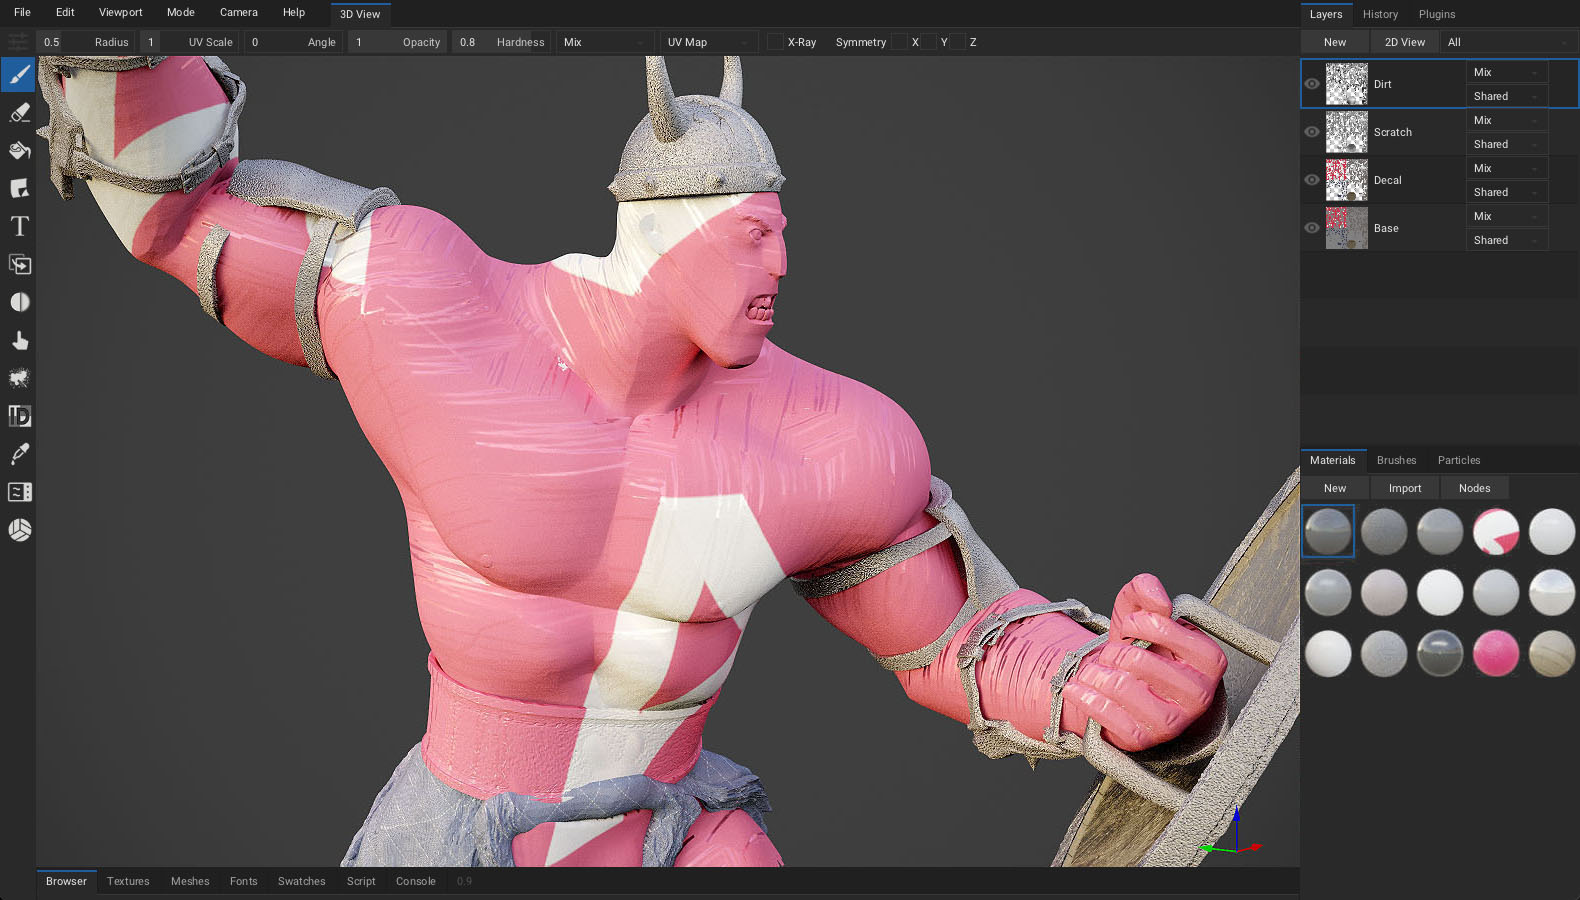
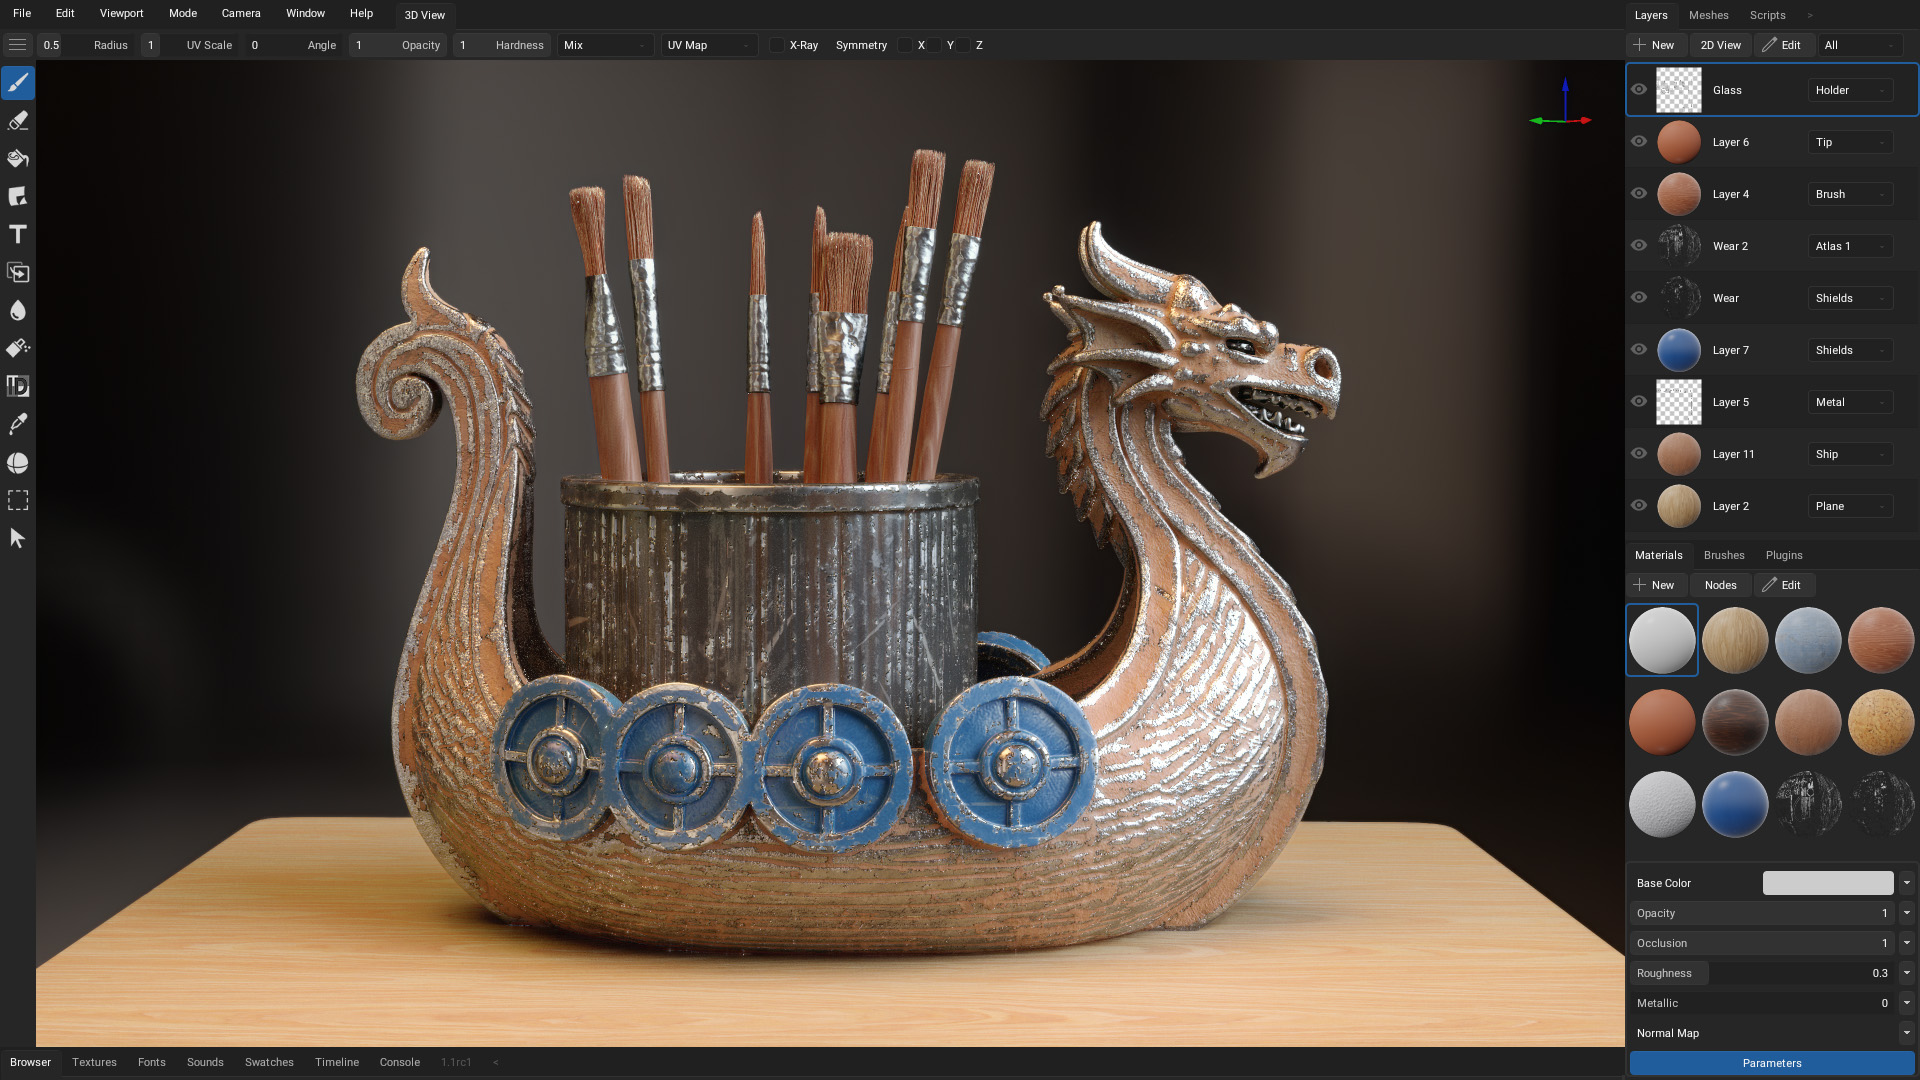
sync

diff --git a/account.html b/account.html
@@ -275,7 +275,6 @@
               <h5>Social</h5>
               <ul class="list-unstyled text-small">
                 <li><a class="link-secondary text-decoration-none" href="https://youtube.com/c/armory3d">YouTube</a></li>
-                <li><a class="link-secondary text-decoration-none" href="https://artstation.com/armory">ArtStation</a></li>
                 <li><a class="link-secondary text-decoration-none" href="https://x.com/armory3d">X</a></li>
               </ul>
             </div>
@@ -284,9 +283,8 @@
             <div>
               <h5>Links</h5>
               <ul class="list-unstyled text-small">
-                <li><a class="link-secondary text-decoration-none" href="https://github.com/armory3d/armorpaint">GitHub</a></li>
-                <li><a class="link-secondary text-decoration-none" href="https://github.com/armory3d/armorpaint/issues">Tracker</a></li>
-                <li><a class="link-secondary text-decoration-none" href="https://forums.armorpaint.org/c/releases">Releases</a></li>
+                <li><a class="link-secondary text-decoration-none" href="https://github.com/armory3d">GitHub</a></li>
+                <li><a class="link-secondary text-decoration-none" href="https://forums.armorpaint.org/c/news">Releases</a></li>
               </ul>
             </div>
           </div>
@@ -300,7 +298,6 @@
                 document.write("<li><a class='link-secondary text-decoration-none' href='" + "mail" + "to:" + user_name + "@" + host_name + "'>Contact</a></li>");
                 </script>
                 <li><a class="link-secondary text-decoration-none" href="https://armorpaint.org/privacy">Privacy</a></li>
-                <li><a class="link-secondary text-decoration-none" href="https://github.com/armory3d/armorpaint/blob/main/license.md">License</a></li>
               </ul>
             </div>
           </div>

diff --git a/index.html b/index.html
@@ -258,7 +258,6 @@
               <h5>Social</h5>
               <ul class="list-unstyled text-small">
                 <li><a class="link-secondary text-decoration-none" href="https://youtube.com/c/armory3d">YouTube</a></li>
-                <li><a class="link-secondary text-decoration-none" href="https://artstation.com/armory">ArtStation</a></li>
                 <li><a class="link-secondary text-decoration-none" href="https://x.com/armory3d">X</a></li>
               </ul>
             </div>
@@ -267,9 +266,8 @@
             <div>
               <h5>Links</h5>
               <ul class="list-unstyled text-small">
-                <li><a class="link-secondary text-decoration-none" href="https://github.com/armory3d/armorpaint">GitHub</a></li>
-                <li><a class="link-secondary text-decoration-none" href="https://github.com/armory3d/armorpaint/issues">Tracker</a></li>
-                <li><a class="link-secondary text-decoration-none" href="https://forums.armorpaint.org/c/releases">Releases</a></li>
+                <li><a class="link-secondary text-decoration-none" href="https://github.com/armory3d">GitHub</a></li>
+                <li><a class="link-secondary text-decoration-none" href="https://forums.armorpaint.org/c/news">Releases</a></li>
               </ul>
             </div>
           </div>
@@ -283,7 +281,6 @@
                 document.write("<li><a class='link-secondary text-decoration-none' href='" + "mail" + "to:" + user_name + "@" + host_name + "'>Contact</a></li>");
                 </script>
                 <li><a class="link-secondary text-decoration-none" href="https://armorpaint.org/privacy">Privacy</a></li>
-                <li><a class="link-secondary text-decoration-none" href="https://github.com/armory3d/armorpaint/blob/main/license.md">License</a></li>
               </ul>
             </div>
           </div>

diff --git a/login.html b/login.html
@@ -240,7 +240,6 @@
               <h5>Social</h5>
               <ul class="list-unstyled text-small">
                 <li><a class="link-secondary text-decoration-none" href="https://youtube.com/c/armory3d">YouTube</a></li>
-                <li><a class="link-secondary text-decoration-none" href="https://artstation.com/armory">ArtStation</a></li>
                 <li><a class="link-secondary text-decoration-none" href="https://x.com/armory3d">X</a></li>
               </ul>
             </div>
@@ -249,9 +248,8 @@
             <div>
               <h5>Links</h5>
               <ul class="list-unstyled text-small">
-                <li><a class="link-secondary text-decoration-none" href="https://github.com/armory3d/armorpaint">GitHub</a></li>
-                <li><a class="link-secondary text-decoration-none" href="https://github.com/armory3d/armorpaint/issues">Tracker</a></li>
-                <li><a class="link-secondary text-decoration-none" href="https://forums.armorpaint.org/c/releases">Releases</a></li>
+                <li><a class="link-secondary text-decoration-none" href="https://github.com/armory3d">GitHub</a></li>
+                <li><a class="link-secondary text-decoration-none" href="https://forums.armorpaint.org/c/news">Releases</a></li>
               </ul>
             </div>
           </div>
@@ -265,7 +263,6 @@
                 document.write("<li><a class='link-secondary text-decoration-none' href='" + "mail" + "to:" + user_name + "@" + host_name + "'>Contact</a></li>");
                 </script>
                 <li><a class="link-secondary text-decoration-none" href="https://armorpaint.org/privacy">Privacy</a></li>
-                <li><a class="link-secondary text-decoration-none" href="https://github.com/armory3d/armorpaint/blob/main/license.md">License</a></li>
               </ul>
             </div>
           </div>

diff --git a/privacy.html b/privacy.html
@@ -234,7 +234,6 @@
               <h5>Social</h5>
               <ul class="list-unstyled text-small">
                 <li><a class="link-secondary text-decoration-none" href="https://youtube.com/c/armory3d">YouTube</a></li>
-                <li><a class="link-secondary text-decoration-none" href="https://artstation.com/armory">ArtStation</a></li>
                 <li><a class="link-secondary text-decoration-none" href="https://x.com/armory3d">X</a></li>
               </ul>
             </div>
@@ -243,9 +242,8 @@
             <div>
               <h5>Links</h5>
               <ul class="list-unstyled text-small">
-                <li><a class="link-secondary text-decoration-none" href="https://github.com/armory3d/armorpaint">GitHub</a></li>
-                <li><a class="link-secondary text-decoration-none" href="https://github.com/armory3d/armorpaint/issues">Tracker</a></li>
-                <li><a class="link-secondary text-decoration-none" href="https://forums.armorpaint.org/c/releases">Releases</a></li>
+                <li><a class="link-secondary text-decoration-none" href="https://github.com/armory3d">GitHub</a></li>
+                <li><a class="link-secondary text-decoration-none" href="https://forums.armorpaint.org/c/news">Releases</a></li>
               </ul>
             </div>
           </div>
@@ -259,7 +257,6 @@
                 document.write("<li><a class='link-secondary text-decoration-none' href='" + "mail" + "to:" + user_name + "@" + host_name + "'>Contact</a></li>");
                 </script>
                 <li><a class="link-secondary text-decoration-none" href="https://armorpaint.org/privacy">Privacy</a></li>
-                <li><a class="link-secondary text-decoration-none" href="https://github.com/armory3d/armorpaint/blob/main/license.md">License</a></li>
               </ul>
             </div>
           </div>

diff --git a/src/footer.html b/src/footer.html
@@ -25,7 +25,6 @@
               <h5>Social</h5>
               <ul class="list-unstyled text-small">
                 <li><a class="link-secondary text-decoration-none" href="https://youtube.com/c/armory3d">YouTube</a></li>
-                <li><a class="link-secondary text-decoration-none" href="https://artstation.com/armory">ArtStation</a></li>
                 <li><a class="link-secondary text-decoration-none" href="https://x.com/armory3d">X</a></li>
               </ul>
             </div>
@@ -34,9 +33,8 @@
             <div>
               <h5>Links</h5>
               <ul class="list-unstyled text-small">
-                <li><a class="link-secondary text-decoration-none" href="https://github.com/armory3d/armorpaint">GitHub</a></li>
-                <li><a class="link-secondary text-decoration-none" href="https://github.com/armory3d/armorpaint/issues">Tracker</a></li>
-                <li><a class="link-secondary text-decoration-none" href="https://forums.armorpaint.org/c/releases">Releases</a></li>
+                <li><a class="link-secondary text-decoration-none" href="https://github.com/armory3d">GitHub</a></li>
+                <li><a class="link-secondary text-decoration-none" href="https://forums.armorpaint.org/c/news">Releases</a></li>
               </ul>
             </div>
           </div>
@@ -50,7 +48,6 @@
                 document.write("<li><a class='link-secondary text-decoration-none' href='" + "mail" + "to:" + user_name + "@" + host_name + "'>Contact</a></li>");
                 </script>
                 <li><a class="link-secondary text-decoration-none" href="https://armorpaint.org/privacy">Privacy</a></li>
-                <li><a class="link-secondary text-decoration-none" href="https://github.com/armory3d/armorpaint/blob/main/license.md">License</a></li>
               </ul>
             </div>
           </div>

diff --git a/src/make.js b/src/make.js
@@ -10,5 +10,3 @@ let write_html = function(fileName, extra = '') {
 
 write_html('index.html');
 write_html('privacy.html');
-write_html('login.html');
-write_html('account.html');
